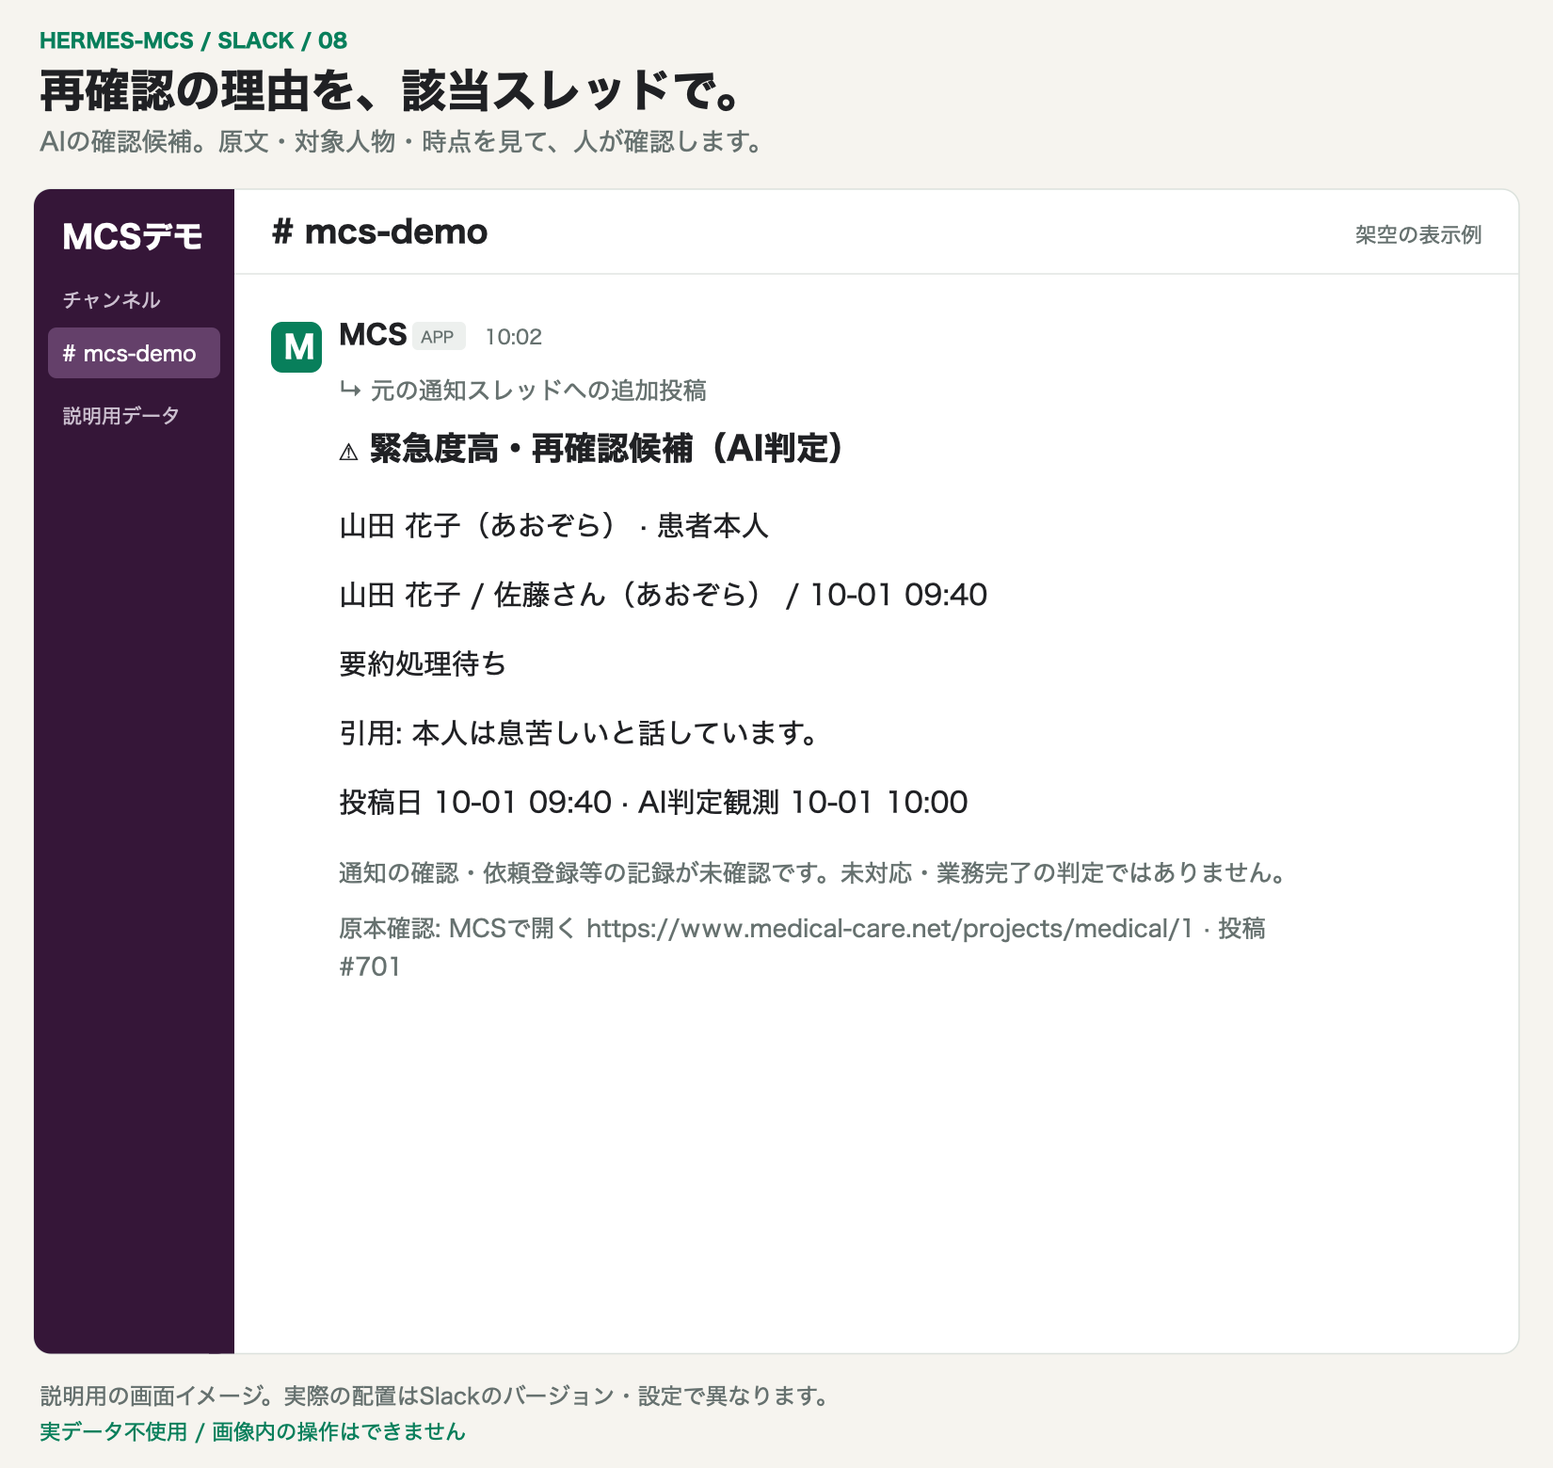
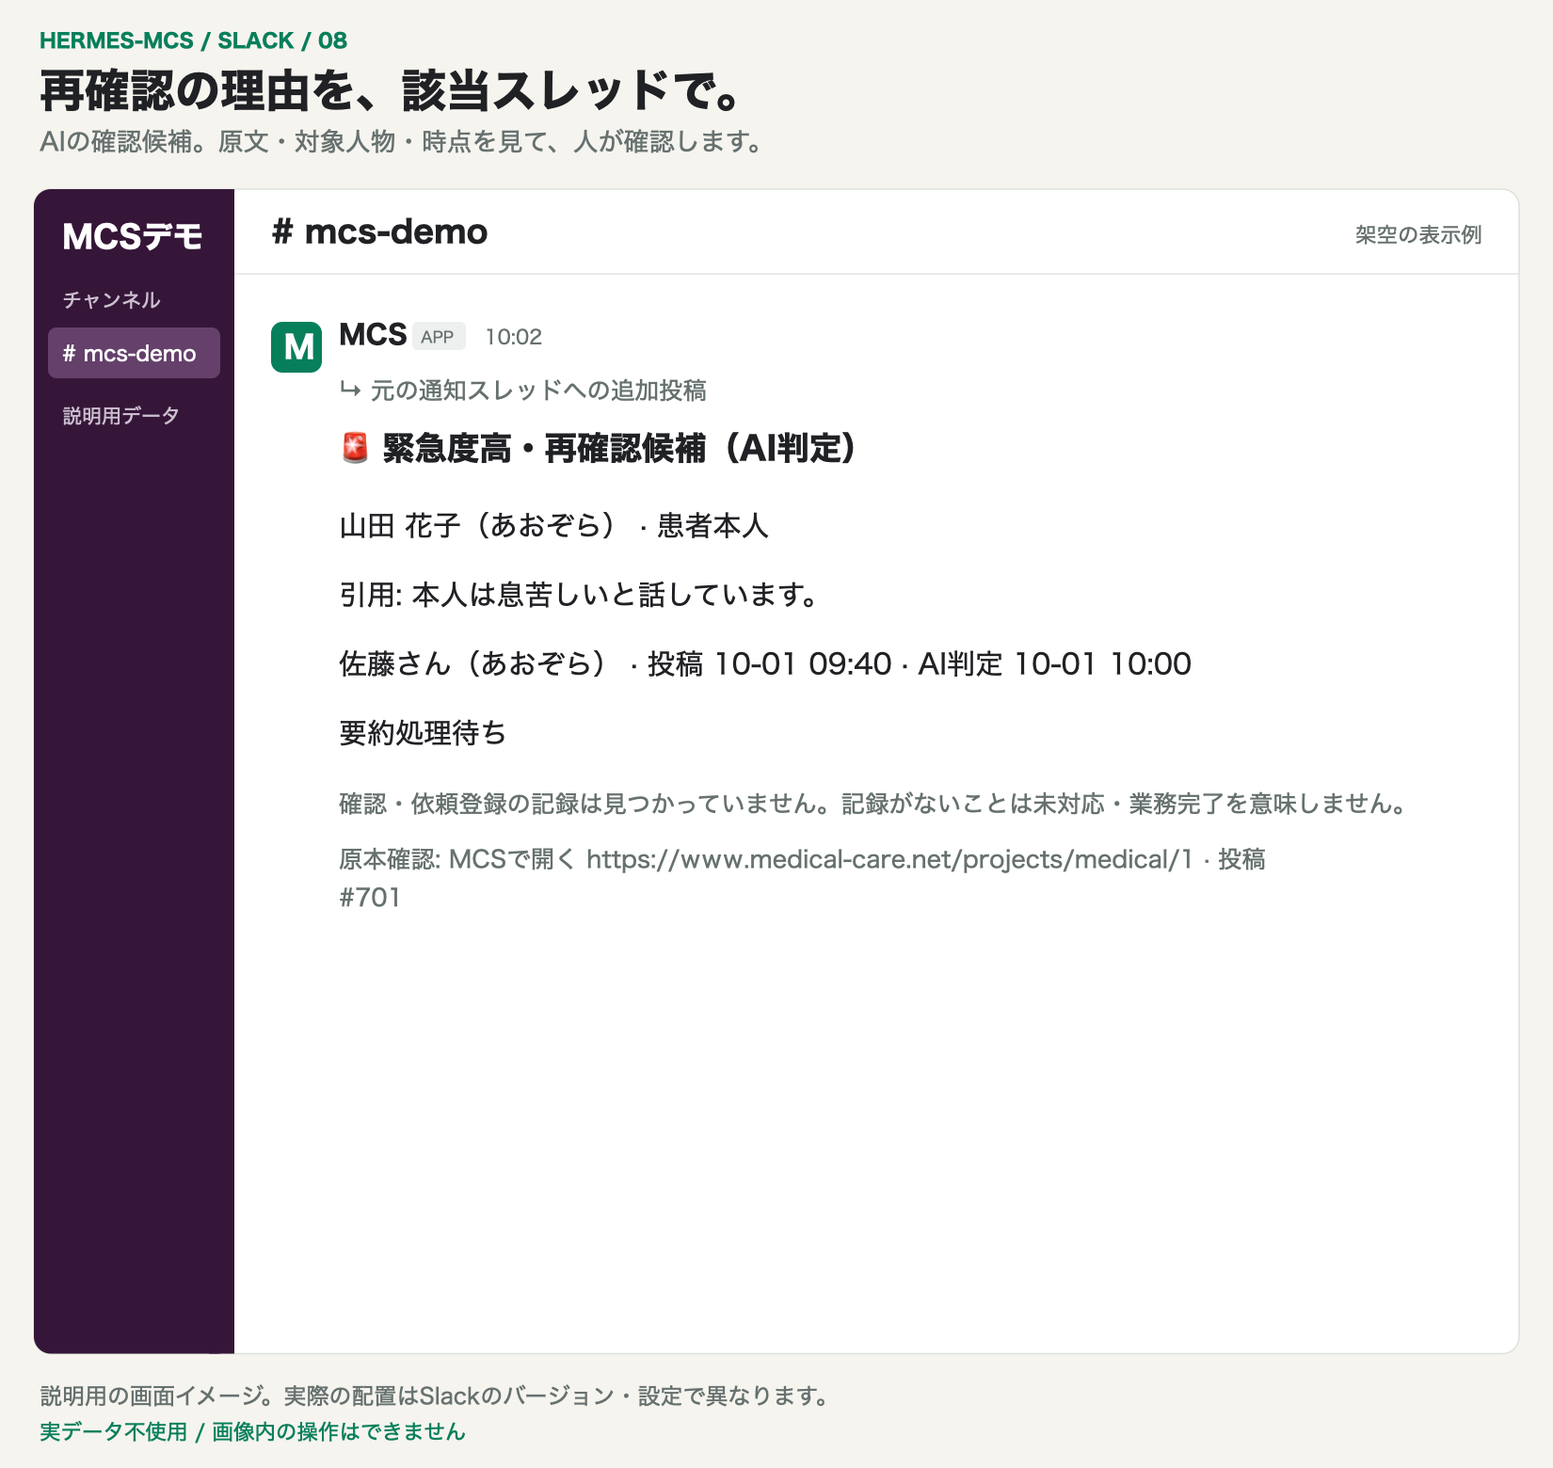
feat(notify): tidy the urgent notice, progress label and 💊 view header
- urgent notice: 🚨 heading, reason quote before sender/time, patient
  name and time once, push preview starts with 🚨緊急度高, clearer
  記録≠対応 note; gallery 08 SVG/PNG regenerated
- progress reads 解析更新中（3区間中1区間完了）
- 💊 view: post/page lines only when there is more than one, dictionary
  id moved to the notes

Changed region(s): [[0.2164, 0.4923, 0.8964, 0.6769], [0.2164, 0.4, 0.7727, 0.4615], [0.2164, 0.2769, 0.5564, 0.3385]]

diff --git a/mcs/notify/alert_view.py b/mcs/notify/alert_view.py
@@ -15,7 +15,9 @@ def _when(value):
 
 
 def render_parts(checked, db=None):
-    """検証済み候補を対象・一意な原文引用・観測時刻の区画へ変換する。"""
+    """検証済み候補を、見出し → 対象 → 理由の引用 → 発信者・時点 → 注記の順で表示する。
+
+    患者名と投稿日時は1回だけ出し、理由（原文引用）を発信者より先に置く。"""
     pid, mid = checked.get("project_id"), checked.get("message_id")
     message = None
     if db is not None and positive(pid) and positive(mid):
@@ -25,13 +27,8 @@ def render_parts(checked, db=None):
     subject = "患者本人" if checked.get("subject") == "patient" else "対象人物は未確認"
     name = notify_render.patient_heading(db, pid) if db is not None and positive(pid) else "患者記録"
     parts = {"containers": [
-        {"type": "heading", "text": "⚠ 緊急度高・再確認候補（AI判定）"},
+        {"type": "heading", "text": "🚨 緊急度高・再確認候補（AI判定）"},
         {"type": "text", "text": f"{name} · {subject}"}], "footer": []}
-    header = notify_render._preview_header(db, pid, message) if db is not None and positive(pid) else "患者記録 / 発信者未取得（所属未取得） / 日時未取得"
-    parts["containers"].append({"type": "text", "text": header})
-    if message is not None and message["body_state"] == "full" and notify_render._structured_block(db, mid) is None:
-        pending = "要約作成失敗" if notify_render._extraction_failed(db, mid) else "要約処理待ち"
-        parts["containers"].append({"type": "text", "text": pending})
     reasons = checked.get("reasons")
     seen = set()
     if message is not None and message["body_state"] == "full" and isinstance(reasons, list):
@@ -46,16 +43,27 @@ def render_parts(checked, db=None):
                 break
     if not seen:
         parts["containers"].append({"type": "text", "text": "緊急理由の引用は未取得。原本で確認してください。"})
-    posted = _when(message["posted_at_ts"]) if message is not None else "不明"
+    sender = (notify_render._inline(message["sender_name"], 24) if message else "") or "発信者未取得"
+    organization = (notify_render._inline(message["organization"], 24) if message else "") or "所属未取得"
+    # the same stored post time the preview header shows
+    posted = (f"{notify_render._mmdd(message['posted_at'])} {notify_render._hhmm(message['posted_at'])}"
+              if message is not None and message["posted_at"] else "不明")
     parts["containers"].append({"type": "text", "text":
-        f"投稿日 {posted} · AI判定観測 {_when(checked.get('observed_at'))}"})
+        f"{sender}（{organization}） · 投稿 {posted} · AI判定 {_when(checked.get('observed_at'))}"})
+    if message is not None and message["body_state"] == "full" and notify_render._structured_block(db, mid) is None:
+        pending = "要約作成失敗" if notify_render._extraction_failed(db, mid) else "要約処理待ち"
+        parts["containers"].append({"type": "text", "text": pending})
     parts["footer"].append({"type": "text", "text":
-        "通知の確認・依頼登録等の記録が未確認です。未対応・業務完了の判定ではありません。"})
+        "確認・依頼登録の記録は見つかっていません。記録がないことは未対応・業務完了を意味しません。"})
     if positive(pid):
         parts["footer"].append({"type": "text", "text":
             f"原本確認: MCSで開く {project_url(pid)} · 投稿 #{mid}"})
+    header = notify_render._preview_header(db, pid, message) if db is not None and positive(pid) else "患者記録 / 発信者未取得（所属未取得） / 日時未取得"
     main = next((part["text"] for part in parts["containers"] if part["type"] == "quote"), "緊急理由の引用は未取得")
-    parts["preview_text"] = notify_render._preview_line(header, f"再確認候補（AI判定・{subject}）: {main}", limit=400)
+    # the push/notification line: urgency first, so a lock screen tells
+    # it apart from a routine request
+    parts["preview_text"] = "🚨緊急度高 " + notify_render._preview_line(
+        header, f"再確認候補（AI判定・{subject}）: {main}", limit=393)
     return parts
 
 

diff --git a/tests/notify/test_notify_progress_render.py b/tests/notify/test_notify_progress_render.py
@@ -22,9 +22,9 @@ def test_processing_complete_attention_updates_both_face_and_body(led, monkeypat
     original = notify_render._card_content(led.db, card)
     assert "解析更新中" not in notify_render.display_text(original)
     processing = notify_render._card_content(led.db, card, cfg={})
-    assert "解析更新中 (完了区間 1/3)" in notify_render.display_text(processing)
+    assert "解析更新中（3区間中1区間完了）" in notify_render.display_text(processing)
     body = notify_render._card_body_text(led.db, card, {"shown": json.dumps([100])}, cfg={})[1]
-    assert "解析更新中 (完了区間 1/3)" in body
+    assert "解析更新中（3区間中1区間完了）" in body
     assert processing["source_fp"] == original["source_fp"]
     assert processing["source_fp"] == card["source_fp"]
     drift = notify_cards._generation_drift(card, processing)
@@ -35,7 +35,7 @@ def test_processing_complete_attention_updates_both_face_and_body(led, monkeypat
     assert notify_render._content_fp(complete) != notify_render._content_fp(processing)
     progress.update(state="attention", completed=1)
     attention = notify_render._card_content(led.db, card, cfg={})
-    assert "解析要確認 (完了区間 1/3)" in notify_render.display_text(attention)
+    assert "解析要確認（3区間中1区間完了）" in notify_render.display_text(attention)
     assert "解析更新中" not in notify_render.display_text(attention)
 
 
@@ -89,10 +89,10 @@ def test_real_current_checkpoint_updates_shared_summary_without_partial_facts(le
     extract_llm._persist_chunks(led, row, {0: {}}, context)
     led.db.execute("PRAGMA query_only=ON")
     block = notify_render._summary_block(led.db, 100, cfg={"local_llm": {"model": model}})
-    assert f"解析更新中 (完了区間 1/{len(roots)})" in block["text"]
+    assert f"解析更新中（{len(roots)}区間中1区間完了）" in block["text"]
     assert "SOURCE-CANARY" not in block["text"]
     changed_model = notify_render._summary_block(led.db, 100, cfg={"local_llm": {"model": "different-synthetic"}})
-    assert f"完了区間 0/{len(roots)}" in changed_model["text"]
+    assert f"{len(roots)}区間中0区間完了" in changed_model["text"]
 
 
 def test_card_reads_each_current_message_once_and_reuses_even_unknown_progress(led, monkeypatch):
@@ -111,7 +111,7 @@ def test_card_reads_each_current_message_once_and_reuses_even_unknown_progress(l
     led.db.execute("PRAGMA query_only=ON")
     content = notify_render._card_content(led.db, card, cfg={})
     assert calls == [100, 101]
-    assert "解析更新中 (完了区間 1/3)" in notify_render.display_text(content)
+    assert "解析更新中（3区間中1区間完了）" in notify_render.display_text(content)
     assert content["progress_fp"] == notify_render.payload_hash([
         (100, {"state": "processing", "completed": 1, "total": 3}), (101, None)])
     calls.clear()
@@ -142,7 +142,7 @@ def test_thread_body_and_attachment_caption_keep_source_without_duplicate_summar
     spec = json.loads(_latest_render(led)["spec_json"])
     face = notify_render.display_text(spec["parts"])
     assert "GENERATED-SUMMARY-CANARY" in face
-    assert "解析更新中 (完了区間 1/3)" in face
+    assert "解析更新中（3区間中1区間完了）" in face
     body = "".join(spec["parts"]["thread_body_parts"])
     assert raw in body and "📄 本文" in body
     caption = next(part["caption"] for part in spec["parts"]["manifest"] if part["kind"] == "attachment_part")

diff --git a/tests/notify/test_alert_view.py b/tests/notify/test_alert_view.py
@@ -16,11 +16,14 @@ def test_grounded_reason_and_separate_post_observation_times(led):
     parts = alert_view.render_parts(checked, led.db)
     text = alert_view.render_text(checked, led.db)
     assert "患者本人" in text and "引用: 本人は息苦しいと話しています。" in text
-    assert "投稿日 " in text and "AI判定観測 " in text
-    assert "未対応・業務完了の判定ではありません" in text
+    assert "投稿 " in text and "AI判定 " in text
+    assert "記録がないことは未対応・業務完了を意味しません" in text
+    # reason before sender/time; the patient name appears once
+    assert text.index("引用: ") < text.index("投稿 ")
+    assert parts["preview_text"].startswith("🚨緊急度高 ")
     assert "MCSで開く" in text and "投稿 #100" in text
     assert len(text) < 600
-    assert "⚠" in notify_render.parts_text(parts, "discord")
+    assert "🚨" in notify_render.parts_text(parts, "discord")
     from adapters.slack.cards import render_parts
     blocks = render_parts(parts, silent=True)
     assert blocks[0]["type"] == "header"
@@ -72,7 +75,7 @@ def test_long_reason_never_truncates_negation_or_subject_tail(led):
 @pytest.mark.parametrize("timestamp", [True, float("nan"), -1, 1e30, None])
 def test_unknown_observation_time_is_explicit(timestamp):
     text = alert_view.render_text({"project_id": 1, "message_id": 100, "observed_at": timestamp})
-    assert "AI判定観測 不明" in text
+    assert "AI判定 不明" in text
 
 
 def test_source_preview_fields_come_from_same_patient_message_not_checked_overrides(led):
@@ -84,6 +87,7 @@ def test_source_preview_fields_come_from_same_patient_message_not_checked_overri
         "subject": "patient", "reasons": ["本人の息苦しさを確認します。"],
         "source_sender": "UNTRUSTED-SENDER", "source_date": "UNTRUSTED-DATE"}, led.db)
     assert "合成発信者（合成所属） / 10-06 08:30" in parts["preview_text"]
+    assert "合成発信者（合成所属） · 投稿 " in notify_render.parts_text(parts)
     assert "本人の息苦しさを確認します。" in parts["preview_text"]
     assert "UNTRUSTED" not in notify_render.parts_text(parts)
     assert "PRIVATE-SYNTHETIC-TAIL" not in parts["preview_text"]

diff --git a/tests/notify/test_card_drug_views.py b/tests/notify/test_card_drug_views.py
@@ -71,10 +71,11 @@ def test_meds_view_lists_the_posts_medication_without_dictionary(led):
     assert (r["outcome"], r["action"]) == ("applied", "list")
     view = r["list"]
     assert view["title"].startswith("💊 ") and view["title"].endswith("選択した投稿の薬剤")
-    assert view["head"][0] == "薬剤記載のある投稿 1/1（新しい順）"
-    assert view["head"][1].startswith("2026-09-24 ")
-    assert view["head"][1].endswith("の投稿 — 1件")
-    assert "有効化されていない" in view["head"][2]
+    # one post, one page: no navigation or page lines
+    assert view["head"][0].startswith("2026-09-24 ")
+    assert view["head"][0].endswith("の投稿 — 1件")
+    assert "有効化されていない" in view["head"][1]
+    assert len(view["head"]) == 2
     assert view["page"] == 0 and view["pages"] == 1
     assert view["items"] == [{"project_id": 1,
                               "text": "・キラナ 5mg[開始]\n　→ 辞書候補なし"}]
@@ -97,7 +98,8 @@ def test_meds_view_shows_the_active_candidate_and_offers_search(led, tmp_path):
     spec = _spec(led)
     assert {"meds", "drugsearch"} <= set(_ids(spec))
     view = _click(led, spec, "meds", cfg=cfg)["list"]
-    assert view["head"][2].startswith("辞書 fictional-v1@")
+    assert view["head"][-1] == "辞書の候補はすべて未確認です"
+    assert any(n.startswith("辞書 fictional-v1@") for n in view["notes"])
     texts = [i["text"] for i in view["items"]]
     # family mention stays out — same rule as the card's 薬剤 line
     assert texts == ["・キラナ 5mg[開始]\n　→ 候補: 架空成分甲（成分・fiction-i1）",
@@ -322,5 +324,5 @@ def test_drug_post_before_twenty_medication_free_replies_remains_available(led):
     spec = _spec(led)
     assert "meds" in _ids(spec)
     result = _click(led, spec, "meds")
-    assert result["list"]["head"][0] == "薬剤記載のある投稿 1/1（新しい順）"
+    assert not result["list"]["head"][0].startswith("薬剤記載のある投稿")
     assert "キラナ" in result["list"]["items"][0]["text"]

diff --git a/mcs/notify/notify_views.py b/mcs/notify/notify_views.py
@@ -563,8 +563,7 @@ def meds_view(db, project_id, message_id, *, can_report=False,
             f"{_inline(row['profession'], 20) or '職種不明'}の投稿 — "
             f"{len(meds) + len(unverified)}件"]
     if refs:
-        head.append(f"辞書 {refs[0]['dict_id']}@{refs[0]['dict_sha256'][:8]}"
-                    "（候補はすべて未確認）")
+        head.append("辞書の候補はすべて未確認です")
     elif not active:
         head.append(_DICTIONARY_STATE["inactive"])
     items = [{"project_id": project_id,
@@ -573,13 +572,16 @@ def meds_view(db, project_id, message_id, *, can_report=False,
              for entries, label in ((meds, ""), (unverified, "（ルール抽出・未確認）"))
              for text, ref in entries]
     notes = [DRUG_CAVEAT]
+    if refs:
+        notes.append(f"辞書 {refs[0]['dict_id']}@{refs[0]['dict_sha256'][:8]}")
     if can_search:
         notes.append("候補の名称・別名は「薬剤を検索」で確認できます。")
     if can_report:
         notes.append("抽出の誤りは「誤りを報告」→「薬」から報告できます。")
     pages = max(1, (len(items) + MEDS_PAGE_SIZE - 1) // MEDS_PAGE_SIZE)
     page = min(max(page, 0), pages - 1)
-    head.append(f"薬剤 {page + 1}/{pages}ページ（全{len(items)}件・1ページ最大{MEDS_PAGE_SIZE}件）")
+    if pages > 1:
+        head.append(f"薬剤 {page + 1}/{pages}ページ（全{len(items)}件）")
     return {"title": title, "head": head,
             "items": items[page * MEDS_PAGE_SIZE:(page + 1) * MEDS_PAGE_SIZE],
             "more": 0, "page": page, "pages": pages,

diff --git a/tests/notify/test_extraction_progress.py b/tests/notify/test_extraction_progress.py
@@ -28,7 +28,7 @@ def test_private_summary_uses_only_validated_counts_and_no_checkpoint_text(led, 
     assert progress == {"processing": 1, "complete": 1, "attention": 1,
                         "completed": 4, "total": 7, "posts": 3, "limited": False}
     text = notify_views.patient_summary_text(led.db, 1, cfg={})[1]
-    assert "処理中1・完了1・要確認1（完了区間4/7）" in text
+    assert "処理中1・完了1・要確認1（7区間中4区間完了）" in text
     assert "完了は抽出処理のみ" in text
     assert "CANARY" not in text and "CANARY" not in str(progress)
 
@@ -136,5 +136,5 @@ def test_real_legacy_checkpoint_reaches_private_summary_read_only(led, change):
     assert progress["total"] > 1
     assert progress["completed"] == (1 if change == "none" else 0)
     text = notify_views.patient_summary_text(led.db, 1, cfg=cfg)[1]
-    assert f"完了区間{progress['completed']}/{progress['total']}" in text
+    assert f"{progress['total']}区間中{progress['completed']}区間完了" in text
     assert "SOURCE_CANARY" not in text and "完了は抽出処理のみ" in text

diff --git a/tests/notify/test_card_layout.py b/tests/notify/test_card_layout.py
@@ -40,7 +40,7 @@ def test_context_line_counts_posts_missing_replies_files_and_mention(led):
     rules = [c for c in _spec(led)["parts"]["containers"] if c.get("rule")]
     summary = notify_render._summary_block(led.db, 100, cfg=CFG)["text"]
     assert len(rules) == 2 and texts.count(summary) == 2
-    assert summary == "📋 要約 処理待ち\n解析更新中 (完了区間 0/1)"
+    assert summary == "📋 要約 処理待ち\n解析更新中（1区間中0区間完了）"
 
 
 def test_new_replies_since_the_card_was_posted(led):
@@ -66,7 +66,7 @@ def test_failed_extraction_is_named_on_the_post(led):
     _dispatch(led, _intent(led, payload={"message_ids": [100]}))
     summary = notify_render._summary_block(led.db, 100, cfg=CFG)["text"]
     assert summary in _texts(_spec(led))
-    assert summary == "📋 要約 作成失敗\n解析要確認 (完了区間 0/1)"
+    assert summary == "📋 要約 作成失敗\n解析要確認（1区間中0区間完了）"
 
 
 def test_footer_is_one_state_item_and_revoked_card_has_no_buttons(led):

diff --git a/tests/notify/test_mobile_notification_preview.py b/tests/notify/test_mobile_notification_preview.py
@@ -71,8 +71,8 @@ def test_urgent_source_preview_uses_the_same_five_fields_without_claiming_comple
         led.db.execute("UPDATE messages SET sender_name='合成発信者',organization='合成所属',"
                        "posted_at='2026-10-06T08:30:00+09:00' WHERE message_id=101")
     text = notify_urgent.render_text({"message_id": 101, "project_id": 1, "stage": "initial"}, led.db)
-    assert "合成発信者（合成所属） / 10-06 08:30" in text
-    assert "要約処理待ち" in text and "未対応・業務完了の判定ではありません" in text
+    assert "合成発信者（合成所属） · 投稿 10-06 08:30" in text
+    assert "要約処理待ち" in text and "記録がないことは未対応・業務完了を意味しません" in text
 
 
 def test_long_source_fields_still_put_primary_fact_before_sender_and_time(led, monkeypatch):

diff --git a/mcs/views/extraction_progress.py b/mcs/views/extraction_progress.py
@@ -73,7 +73,7 @@ def summary_lines(db, project_id, *, cfg=None):
     line = (f"抽出の処理状況（{scope}）: 処理中{progress['processing']}・"
             f"完了{progress['complete']}・要確認{progress['attention']}")
     if progress["total"]:
-        line += f"（完了区間{progress['completed']}/{progress['total']}）"
+        line += f"（{progress['total']}区間中{progress['completed']}区間完了）"
     caveat = "完了は抽出処理のみ。記録や臨床情報の完全性は保証しません。"
     if progress["limited"]:
         caveat = "以前の投稿は表示対象外。" + caveat

diff --git a/mcs/notify/notify_cards.py b/mcs/notify/notify_cards.py
@@ -2814,7 +2814,8 @@ def _act_view(db, base, card, action, inputs, now, cfg=None,
         view = meds_view(db, card["project_id"], mid,
                          can_report=ref.get("message_id") == mid,
                          can_search=drug_search_available(db), page=page)
-        view["head"].insert(0, f"薬剤記載のある投稿 {selected + 1}/{len(posts)}（新しい順）")
+        if len(posts) > 1:
+            view["head"].insert(0, f"薬剤記載のある投稿 {selected + 1}/{len(posts)}（新しい順）")
         navigation, token_ctx = [], {}
 
         def navigate(label, target, target_page=0):

diff --git a/mcs/notify/notify_render.py b/mcs/notify/notify_render.py
@@ -454,7 +454,7 @@ def _progress_label(progress):
         return ""
     label = "解析更新中" if progress["state"] == "processing" else "解析要確認"
     if progress["total"]:
-        label += f" (完了区間 {progress['completed']}/{progress['total']})"
+        label += f"（{progress['total']}区間中{progress['completed']}区間完了）"
     return label
 
 
